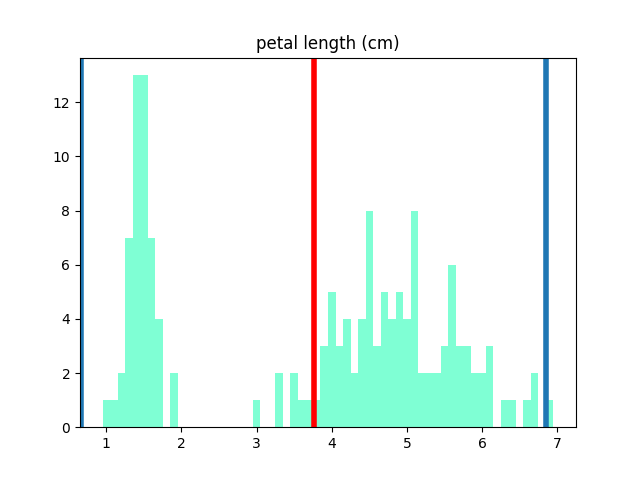
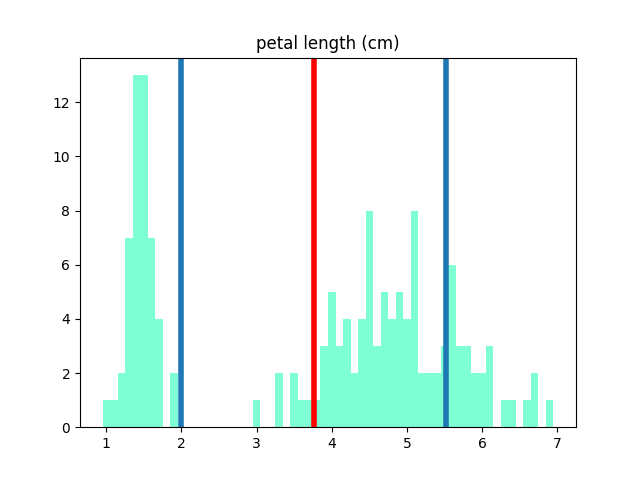
Add files via upload

diff --git a/HW1/iris/iris_visualize/iris_visualize.py b/HW1/iris/iris_visualize/iris_visualize.py
@@ -13,7 +13,7 @@ def feature_count(i,x,feature,save):
 	y = np.unique(tmp_float)
 	z = [np.sum(tmp_float==j) for j in y]
 	filename = feature+".png" if save is 1 else ""
-	charts.bar(y,z,np.mean(tmp_float),np.var(tmp_float),title=feature,filename=filename)
+	charts.bar(y,z,np.mean(tmp_float),np.sqrt(np.var(tmp_float)),title=feature,filename=filename)
 def main():
 	iris = load_iris()
 	target_count(iris,1)
